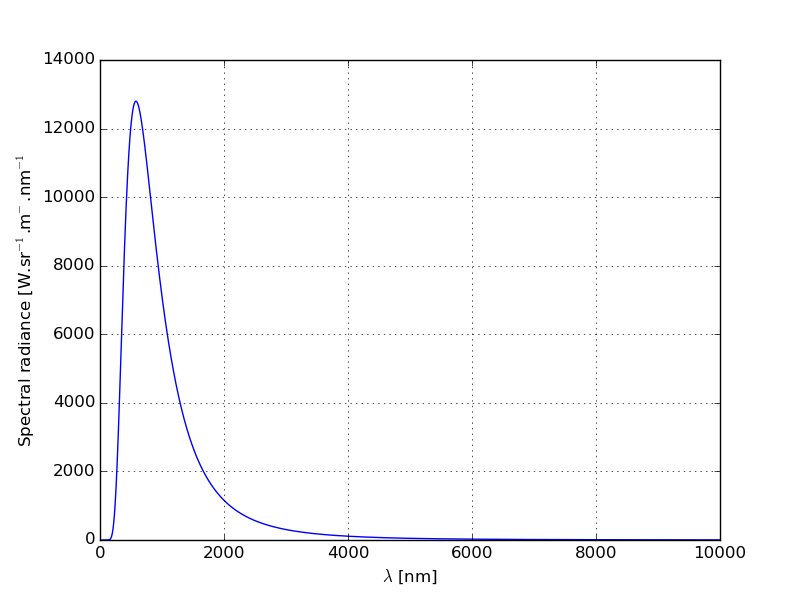
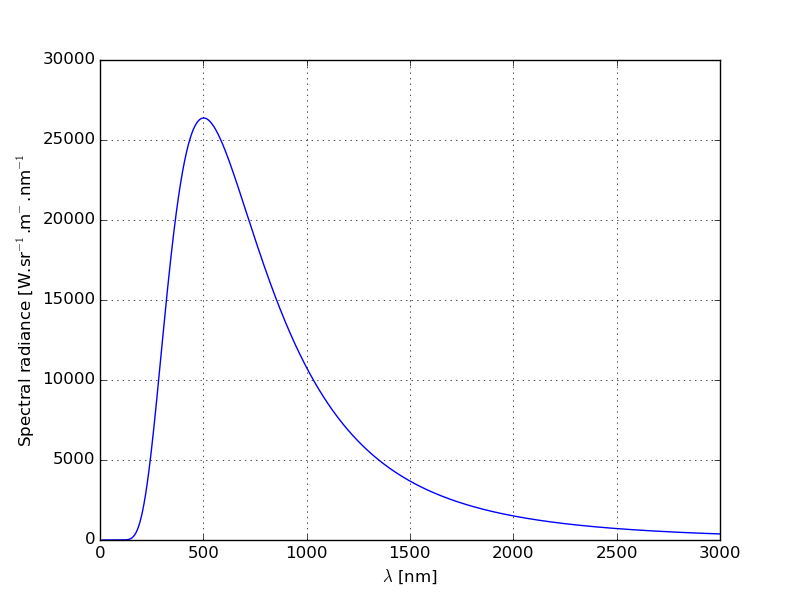
correction for temeprature of sun

diff --git a/integral/domcek/numerical_integration.py b/integral/domcek/numerical_integration.py
@@ -66,10 +66,10 @@ plot_multiple(5000,10000,1000,10,2000)
 
 #defining boundries of calculating function
 lambda_initial=10
-lambda_final=10000
+lambda_final=3000
 
 #temperature of blackbody
-temperature=5000
+temperature=5778
 
 #calculating planck function
 a, b = planck(temperature,lambda_initial,lambda_final) 
